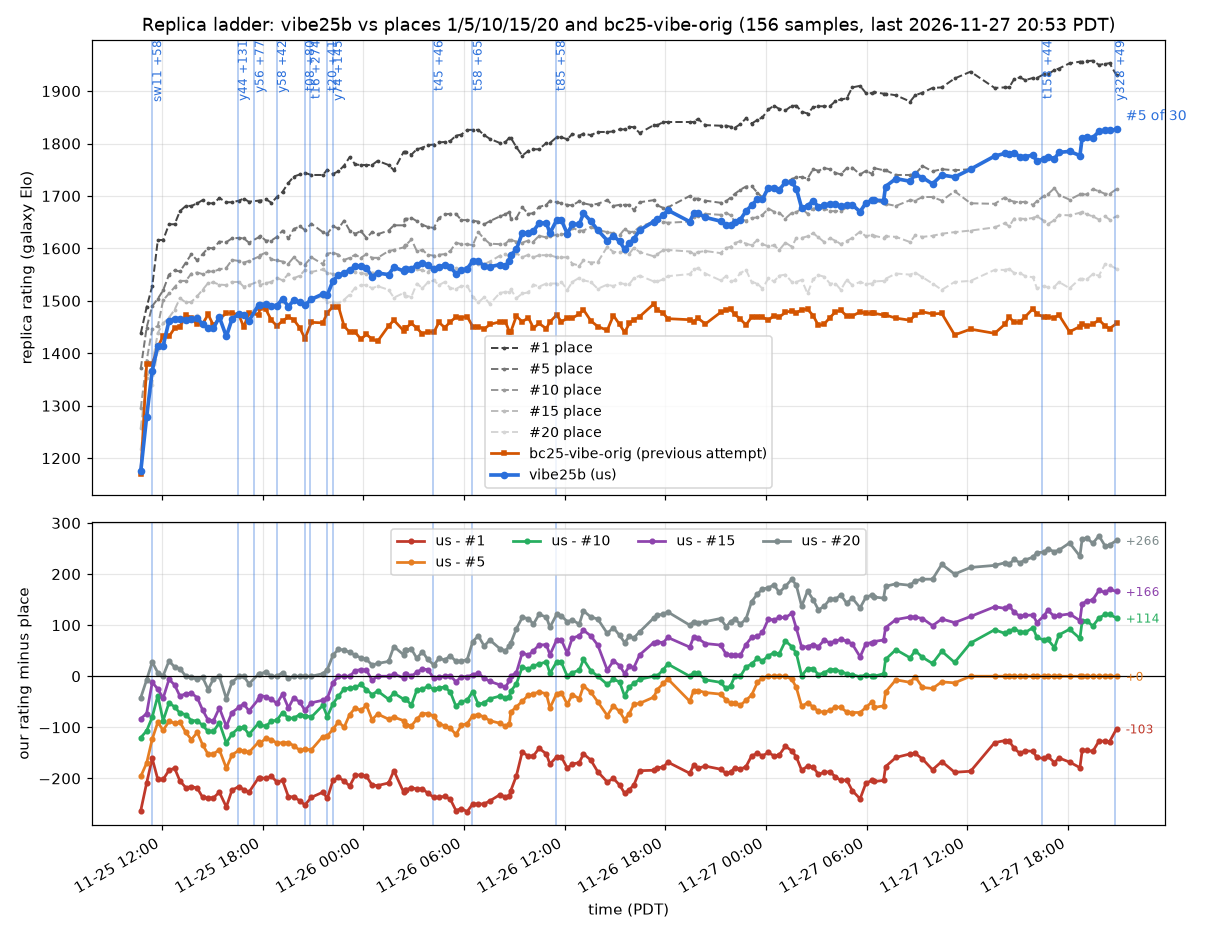
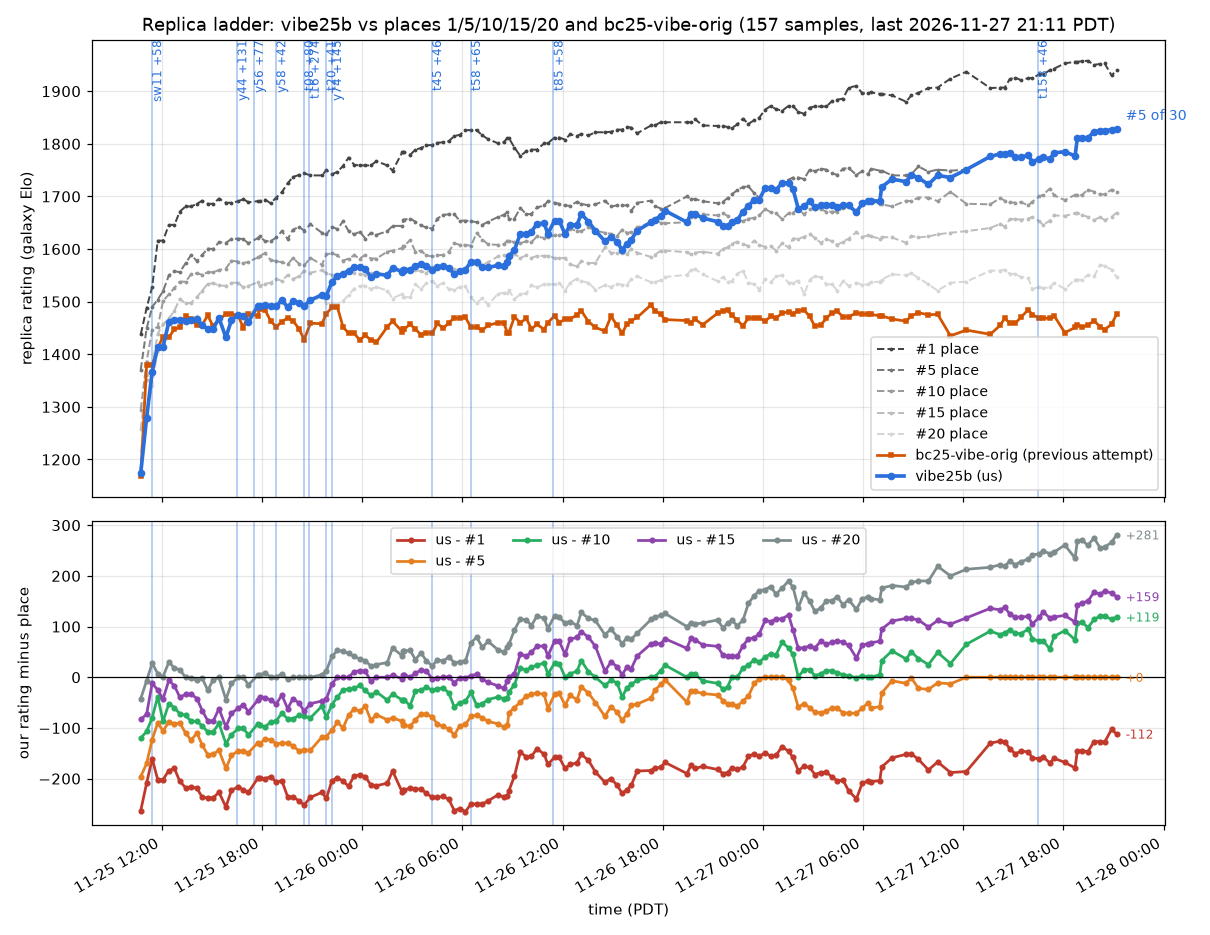
prod: y328 sets 1828 at #5; slots: y316 reference in, y323 and t158 out
Claude-Session: https://claude.ai/code/session_01SzziPSCWtjsjju9cnThDf5

diff --git a/progress/local-elo.md b/progress/local-elo.md
@@ -1,60 +1,60 @@
 # Local tournament Elo
 
-Bradley-Terry ratings of our own bots in the local tournament (`tools/tourney.py`), all 191429 games in one fit as of 2026-11-27 20:57 PDT, so every point is on the same scale; earlier champions are shown at their current rating, and "Gain" is the rating over the champion it replaced. `tools/tourney.py rank` rewrites this table; `tools/tourney.py chart` also redraws the chart.
+Bradley-Terry ratings of our own bots in the local tournament (`tools/tourney.py`), all 192694 games in one fit as of 2026-11-27 21:17 PDT, so every point is on the same scale; earlier champions are shown at their current rating, and "Gain" is the rating over the champion it replaced. `tools/tourney.py rank` rewrites this table; `tools/tourney.py chart` also redraws the chart.
 
 ![local elo](local-elo.png)
 
 | Champion from (PDT) | Bot | Change on base | Submission | Rating +- SE | Gain | Games |
 |---|---|---|---:|---:|---:|---:|
-| 2026-11-25 08:28 | v01 | foundation bot |  | 82 +- 18 |  | 435 |
-| 2026-11-25 08:39 | v02 | nav wall-follow fix + bytecode guards on v01 | #6 | 147 +- 13 | +65 | 801 |
-| 2026-11-25 09:01 | y02 | paint-heavy tower mix + paint towers upgraded first on v02 | #7 | 206 +- 11 | +59 | 1080 |
-| 2026-11-25 09:49 | y06 | 3 opening soldiers instead of 2 on y02 | #35 | 227 +- 13 | +21 | 700 |
-| 2026-11-25 10:09 | sw06 | no moppers before r80; a third of spawns moppers after (field study 1) on y02 | #36 | 284 +- 12 | +79 | 863 |
-| 2026-11-25 11:04 | y11 | mid-game mix 3 moppers per 6 (soldier mopper splasher mopper soldier mopper) on sw06 | #37 | 317 +- 14 | +33 | 655 |
-| 2026-11-25 11:24 | sw11 | at most 1 helper soldier per ruin (more ruins claimed in parallel) on y11 | #38 | 375 +- 11 | +58 | 1159 |
-| 2026-11-25 12:24 | y17 | sw11 + moppers prefer enemies within r2 25 of our towers (sw12) on sw11 | #39 | 393 +- 12 | +18 | 871 |
-| 2026-11-25 12:44 | y19 | sw11 with soldiers joining an occupied ruin only when adjacent (r2<=2) on y17 | #40 | 428 +- 14 | +35 | 678 |
-| 2026-11-25 13:04 | y24 | y17 with mopper defence widened (DEFEND_R2 36 / bonus 80) on y19 | #41 | 463 +- 13 | +35 | 679 |
-| 2026-11-25 13:24 | y25 | y19 (adjacent-only ruin helping) + y17 tower-defending moppers on y24 | #42 | 472 +- 12 | +9 | 898 |
-| 2026-11-25 13:44 | sw16 | y25 + soldier siege: with no ruin and paint>=80 kite a known enemy tower within r2 64 on y25 | #43 | 497 +- 11 | +24 | 976 |
-| 2026-11-25 14:04 | sw17 | y28 (siege from 50 paint r2 100) + splasher siege (towers weigh 40; walk to known tower within r2 100 at paint>=100) on sw16 | #44 | 529 +- 10 | +33 | 1110 |
-| 2026-11-25 14:44 | y30 | y28 with soldier siege from 30 paint within r2 144 (no splasher siege) on sw17 | #45 | 546 +- 7 | +17 | 2377 |
-| 2026-11-25 16:30 | y44 | study 3 tactic 3 (enemy refill policy): return at 50% paint (soldier 100/splasher 100/mopper 40) + end-of-turn top-up from any adjacent ally tower on y30 | #46 | 677 +- 8 | +131 | 2250 |
-| 2026-11-25 17:30 | y56 | study 3 tactic 4 (tower churn): a drained L1 money tower with intact pattern and an ally adjacent disintegrates at >=2000 chips; adjacent robots re-complete it for a fresh 500 paint on y44 | #47 | 754 +- 10 | +77 | 1320 |
-| 2026-11-25 18:50 | y58 | study 3 tactic 2 (early soldiers paint patterns not coverage): exploring soldiers paint no coverage before r50 on y56 | #48 | 796 +- 11 | +42 | 997 |
-| 2026-11-25 19:30 | t04 | t02 (no coverage painting before r80) + t03 (units wait beside drained money towers and repair their pattern so churn fires; study 3 tactics 2 and 4) on y58 | #49 | 829 +- 11 | +33 | 1065 |
-| 2026-11-25 20:30 | t08 | study 4 2.2 (contested ruins): soldiers skip a ruin with enemy paint in its visible 5x5 (bad for 50 rounds) on t04 | #50 | 909 +- 13 | +80 | 775 |
-| 2026-11-25 20:50 | t16 | t12 (t08 + study 4 2.1 spawn freeze 8 rounds in 20 below 1000+cost) + study 4 2.4 money-first: builds money until 8 towers then paint while paint towers < n/5; paint first only if none (all towers known) on t08 | #51 | 1183 +- 12 | +274 | 1213 |
-| 2026-11-25 21:50 | t20 | study 4 2.3: splashers weight enemy towers 30 (was 12) in the splash score on t16 | #52 | 1224 +- 15 | +41 | 587 |
-| 2026-11-25 22:10 | y74 | unit audit (owner prompt #15): splash-grid bug fix (enemy tiles never scored) + moppers stop once enemy paint is in mop reach; built on t16 on t20 | #53 | 1369 +- 10 | +145 | 1255 |
-| 2026-11-25 23:10 | t25 | unit audit + top teams' unit mix (616 S / 662 X / 701 M): after r80 paint towers cycle soldier-splasher-mopper; money towers keep S M X M S M on y74 | #54 | 1405 +- 13 | +36 | 680 |
-| 2026-11-25 23:30 | t27 | top teams' splasher-heavy late mix pushed further: paint towers cycle soldier-splasher-splasher-mopper after r80 on t25 | #55 | 1428 +- 9 | +22 | 1554 |
-| 2026-11-26 00:30 | y95 | upgrade spare 1200 (was 800): chips stay for new towers longer on t27 | #56 | 1463 +- 9 | +35 | 1822 |
-| 2026-11-26 02:01 | t36 | late SRPs (study 4 2.6 / study 3 tactic 7): soldiers without a ruin build SRPs on the x%4==2 y%4==2 lattice from r100 with chips>=1000; splashers avoid repainting SRP secondary tiles on y95 | #57 | 1500 +- 11 | +37 | 977 |
-| 2026-11-26 02:50 | y110 | money towers upgrade only with 2500 chips beyond the cost+spare (was 1000): chips go to new towers and SRPs on t36 | #58 | 1530 +- 10 | +31 | 1260 |
-| 2026-11-26 03:30 | t42 | study 4 3.1 recovery: with every tower known and no money tower left the next ruin is a money tower on y110 | #59 | 1544 +- 10 | +14 | 1332 |
-| 2026-11-26 04:10 | t45 | study 3 tactic 1: after r40 towers spawn only with 1000 chips beyond the unit's cost (no 600-chip window) on t42 | #60 | 1591 +- 10 | +46 | 1226 |
-| 2026-11-26 04:50 | t47 | study 3 tactic 5: a mopper due in the cycle spawns even below the 1000 reserve when an enemy robot is within d2 20 of the tower on t45 | #61 | 1619 +- 7 | +29 | 2398 |
-| 2026-11-26 06:30 | t58 | study 5 2.3: a splasher that has not splashed for 8 rounds (while able to) explores instead of chasing the nearest non-ally tile on t47 | #62 | 1684 +- 11 | +65 | 1087 |
-| 2026-11-26 07:10 | t61 | study 5 2.1 (softened): money towers for builds 1-5; then one more paint tower per 4 towers on t58 | #63 | 1720 +- 11 | +36 | 938 |
-| 2026-11-26 07:30 | y155 | study 5 2.1 tuned: money towers for builds 1-6; then one more paint tower per 4 towers on t61 | #64 | 1751 +- 9 | +31 | 1615 |
-| 2026-11-26 08:27 | t70 | y155 + splashers weight enemy towers 30 (t68) + 2000+ chips makes the next tower a paint tower (y159) on y155 | #65 | 1777 +- 7 | +26 | 2530 |
-| 2026-11-26 09:47 | t74 | moppers weight enemy paint near ruins 40 (study 6 2.1c) on t70 | #66 | 1796 +- 8 | +19 | 2200 |
-| 2026-11-26 10:47 | y170 | soldiers make the next tower a paint tower at 1500+ chips (t63 tuning; was 2000) on t74 | #67 | 1792 +- 7 | -4 | 2823 |
-| 2026-11-26 11:27 | t85 | study 6 2.2 ruin denial from where the soldier stands: a soldier with no ruin paints empty tiles of a ruin the enemy is building; without walking to it on y170 | #68 | 1850 +- 7 | +58 | 2556 |
-| 2026-11-26 12:47 | t91 | study 7 2.5: moppers ignore ruins under enemy towers when weighting ruin paint on t85 | #69 | 1862 +- 5 | +12 | 5663 |
-| 2026-11-26 13:27 | y195 | study 7 2.1a: explore unseen tiles first; up to 16 random draws on t91 | #70 | 1875 +- 9 | +14 | 1349 |
-| 2026-11-26 14:12 | y197 | ruin denial stops at 2 of our tiles (tuning of study 6 2.2) on y195 | #71 | 1891 +- 7 | +16 | 2235 |
-| 2026-11-26 15:27 | y211 | study 7 2.1a tuned: up to 128 random draws for an unseen explore target (was 16) on y197 | #72 | 1895 +- 6 | +3 | 4141 |
-| 2026-11-26 17:47 | y221 | study 8 2.2 (paint the first tower's pattern on the way in; a second soldier on the first ruin) + explore timeout 90; first champion through the confirmation stage (owner #46) on y211 | #73 | 1930 +- 5 | +35 | 6990 |
-| 2026-11-26 19:34 | t111 | splashers attack enemy paint/money towers from a stand-off tile outside their range (study 8 2.4) on y221 | #74 | 1944 +- 4 | +14 | 7551 |
-| 2026-11-26 23:27 | t118 | study 9 2.1b: a soldier on a blocked pattern with no own mopper or splasher in view gives up after 5 turns (was 25); confirmed +71 +-29 in 153 fresh games on t111 | #75 | 1981 +- 4 | +37 | 15801 |
-| 2026-11-27 01:07 | t122 | study 9 2.4: paint-tower dry flags expire after 10 rounds (was 40) and a flagged tower in sight is re-sensed; confirmed +6 +-19 in 378 fresh games; +16 overall on t118 | #76 | 1991 +- 4 | +11 | 18772 |
-| 2026-11-27 06:10 | t135 | study 10 2.6d: a soldier with no other soldier in view skips the 25-paint pattern mark (the top teams never mark); confirmed +9 +-22 in 262 fresh games; +14 overall on t122 | #77 | 1987 +- 5 | -4 | 6458 |
-| 2026-11-27 08:28 | t140 (now r140, verified identical) | study 11 2.1: free single marks (rc.mark on the 5x5 outer ring) replace the 25-paint pattern mark; marks re-read beside the ruin; confirmed +40 +-23 in 251 fresh games; +30 overall on t135 | #78 | 2028 +- 4 | +41 | 16363 |
-| 2026-11-27 16:27 | t158 | study 12 2.2: moppers hit and run (after acting; step off non-ally paint and away from enemy moppers within d2 8 and towers within d2 9); +40 +-24 over r140 in 217 games; first crowning without the confirmation stage (owner #66) on r140 | #79 | 2072 +- 6 | +44 | 3217 |
-| 2026-11-27 17:47 | t160 | t158 + study 12 2.4 n1 (Nav.tileCost counts adjacent allies; the engine's drain rule; y295) + 2.2 m1 (moppers swing at a single robot; t152); +17 +-15 over t158 in 818 games on t158 | #80 | 2084 +- 8 | +12 | 2052 |
-| 2026-11-27 18:25 | y316 | t160 + Nav paint weight 8 (was 6); +34 +-25 over t160 in 224 games on t160 | #81 | 2092 +- 6 | +8 | 3237 |
-| 2026-11-27 20:07 | y323 | y316 + churn wait 2 rounds (was 3; study 13 2.1: waiters hit 0 paint after a median 3 rounds); +36 +-21 over y316 in 306 games on y316 | #82 | 2110 +- 10 | +18 | 1321 |
-| 2026-11-27 20:47 | y328 | y323 + dry flags on money/defence towers last 60 rounds (was 40); +49 +-25 over y323 in 233 games on y323 | #83 | 2159 +- 23 | +49 | 233 |
+| 2026-11-25 08:28 | v01 | foundation bot |  | 73 +- 18 |  | 435 |
+| 2026-11-25 08:39 | v02 | nav wall-follow fix + bytecode guards on v01 | #6 | 138 +- 13 | +65 | 801 |
+| 2026-11-25 09:01 | y02 | paint-heavy tower mix + paint towers upgraded first on v02 | #7 | 197 +- 11 | +59 | 1080 |
+| 2026-11-25 09:49 | y06 | 3 opening soldiers instead of 2 on y02 | #35 | 218 +- 13 | +21 | 700 |
+| 2026-11-25 10:09 | sw06 | no moppers before r80; a third of spawns moppers after (field study 1) on y02 | #36 | 276 +- 12 | +79 | 863 |
+| 2026-11-25 11:04 | y11 | mid-game mix 3 moppers per 6 (soldier mopper splasher mopper soldier mopper) on sw06 | #37 | 308 +- 14 | +33 | 655 |
+| 2026-11-25 11:24 | sw11 | at most 1 helper soldier per ruin (more ruins claimed in parallel) on y11 | #38 | 366 +- 11 | +58 | 1159 |
+| 2026-11-25 12:24 | y17 | sw11 + moppers prefer enemies within r2 25 of our towers (sw12) on sw11 | #39 | 384 +- 12 | +18 | 871 |
+| 2026-11-25 12:44 | y19 | sw11 with soldiers joining an occupied ruin only when adjacent (r2<=2) on y17 | #40 | 420 +- 14 | +35 | 678 |
+| 2026-11-25 13:04 | y24 | y17 with mopper defence widened (DEFEND_R2 36 / bonus 80) on y19 | #41 | 454 +- 13 | +35 | 679 |
+| 2026-11-25 13:24 | y25 | y19 (adjacent-only ruin helping) + y17 tower-defending moppers on y24 | #42 | 464 +- 12 | +9 | 898 |
+| 2026-11-25 13:44 | sw16 | y25 + soldier siege: with no ruin and paint>=80 kite a known enemy tower within r2 64 on y25 | #43 | 488 +- 11 | +24 | 976 |
+| 2026-11-25 14:04 | sw17 | y28 (siege from 50 paint r2 100) + splasher siege (towers weigh 40; walk to known tower within r2 100 at paint>=100) on sw16 | #44 | 521 +- 10 | +33 | 1110 |
+| 2026-11-25 14:44 | y30 | y28 with soldier siege from 30 paint within r2 144 (no splasher siege) on sw17 | #45 | 538 +- 7 | +17 | 2377 |
+| 2026-11-25 16:30 | y44 | study 3 tactic 3 (enemy refill policy): return at 50% paint (soldier 100/splasher 100/mopper 40) + end-of-turn top-up from any adjacent ally tower on y30 | #46 | 668 +- 8 | +131 | 2250 |
+| 2026-11-25 17:30 | y56 | study 3 tactic 4 (tower churn): a drained L1 money tower with intact pattern and an ally adjacent disintegrates at >=2000 chips; adjacent robots re-complete it for a fresh 500 paint on y44 | #47 | 746 +- 10 | +77 | 1320 |
+| 2026-11-25 18:50 | y58 | study 3 tactic 2 (early soldiers paint patterns not coverage): exploring soldiers paint no coverage before r50 on y56 | #48 | 787 +- 11 | +42 | 997 |
+| 2026-11-25 19:30 | t04 | t02 (no coverage painting before r80) + t03 (units wait beside drained money towers and repair their pattern so churn fires; study 3 tactics 2 and 4) on y58 | #49 | 820 +- 11 | +33 | 1065 |
+| 2026-11-25 20:30 | t08 | study 4 2.2 (contested ruins): soldiers skip a ruin with enemy paint in its visible 5x5 (bad for 50 rounds) on t04 | #50 | 900 +- 13 | +80 | 775 |
+| 2026-11-25 20:50 | t16 | t12 (t08 + study 4 2.1 spawn freeze 8 rounds in 20 below 1000+cost) + study 4 2.4 money-first: builds money until 8 towers then paint while paint towers < n/5; paint first only if none (all towers known) on t08 | #51 | 1175 +- 12 | +274 | 1213 |
+| 2026-11-25 21:50 | t20 | study 4 2.3: splashers weight enemy towers 30 (was 12) in the splash score on t16 | #52 | 1216 +- 15 | +41 | 587 |
+| 2026-11-25 22:10 | y74 | unit audit (owner prompt #15): splash-grid bug fix (enemy tiles never scored) + moppers stop once enemy paint is in mop reach; built on t16 on t20 | #53 | 1360 +- 10 | +145 | 1255 |
+| 2026-11-25 23:10 | t25 | unit audit + top teams' unit mix (616 S / 662 X / 701 M): after r80 paint towers cycle soldier-splasher-mopper; money towers keep S M X M S M on y74 | #54 | 1396 +- 13 | +36 | 680 |
+| 2026-11-25 23:30 | t27 | top teams' splasher-heavy late mix pushed further: paint towers cycle soldier-splasher-splasher-mopper after r80 on t25 | #55 | 1419 +- 9 | +22 | 1554 |
+| 2026-11-26 00:30 | y95 | upgrade spare 1200 (was 800): chips stay for new towers longer on t27 | #56 | 1454 +- 9 | +35 | 1822 |
+| 2026-11-26 02:01 | t36 | late SRPs (study 4 2.6 / study 3 tactic 7): soldiers without a ruin build SRPs on the x%4==2 y%4==2 lattice from r100 with chips>=1000; splashers avoid repainting SRP secondary tiles on y95 | #57 | 1491 +- 11 | +37 | 977 |
+| 2026-11-26 02:50 | y110 | money towers upgrade only with 2500 chips beyond the cost+spare (was 1000): chips go to new towers and SRPs on t36 | #58 | 1521 +- 10 | +31 | 1260 |
+| 2026-11-26 03:30 | t42 | study 4 3.1 recovery: with every tower known and no money tower left the next ruin is a money tower on y110 | #59 | 1536 +- 10 | +14 | 1332 |
+| 2026-11-26 04:10 | t45 | study 3 tactic 1: after r40 towers spawn only with 1000 chips beyond the unit's cost (no 600-chip window) on t42 | #60 | 1582 +- 10 | +46 | 1226 |
+| 2026-11-26 04:50 | t47 | study 3 tactic 5: a mopper due in the cycle spawns even below the 1000 reserve when an enemy robot is within d2 20 of the tower on t45 | #61 | 1611 +- 7 | +29 | 2398 |
+| 2026-11-26 06:30 | t58 | study 5 2.3: a splasher that has not splashed for 8 rounds (while able to) explores instead of chasing the nearest non-ally tile on t47 | #62 | 1676 +- 11 | +65 | 1087 |
+| 2026-11-26 07:10 | t61 | study 5 2.1 (softened): money towers for builds 1-5; then one more paint tower per 4 towers on t58 | #63 | 1711 +- 11 | +36 | 938 |
+| 2026-11-26 07:30 | y155 | study 5 2.1 tuned: money towers for builds 1-6; then one more paint tower per 4 towers on t61 | #64 | 1742 +- 9 | +31 | 1615 |
+| 2026-11-26 08:27 | t70 | y155 + splashers weight enemy towers 30 (t68) + 2000+ chips makes the next tower a paint tower (y159) on y155 | #65 | 1768 +- 7 | +26 | 2530 |
+| 2026-11-26 09:47 | t74 | moppers weight enemy paint near ruins 40 (study 6 2.1c) on t70 | #66 | 1787 +- 8 | +19 | 2200 |
+| 2026-11-26 10:47 | y170 | soldiers make the next tower a paint tower at 1500+ chips (t63 tuning; was 2000) on t74 | #67 | 1783 +- 7 | -4 | 2823 |
+| 2026-11-26 11:27 | t85 | study 6 2.2 ruin denial from where the soldier stands: a soldier with no ruin paints empty tiles of a ruin the enemy is building; without walking to it on y170 | #68 | 1840 +- 7 | +58 | 2556 |
+| 2026-11-26 12:47 | t91 | study 7 2.5: moppers ignore ruins under enemy towers when weighting ruin paint on t85 | #69 | 1852 +- 5 | +12 | 5663 |
+| 2026-11-26 13:27 | y195 | study 7 2.1a: explore unseen tiles first; up to 16 random draws on t91 | #70 | 1866 +- 9 | +14 | 1349 |
+| 2026-11-26 14:12 | y197 | ruin denial stops at 2 of our tiles (tuning of study 6 2.2) on y195 | #71 | 1882 +- 7 | +16 | 2235 |
+| 2026-11-26 15:27 | y211 | study 7 2.1a tuned: up to 128 random draws for an unseen explore target (was 16) on y197 | #72 | 1886 +- 6 | +3 | 4141 |
+| 2026-11-26 17:47 | y221 | study 8 2.2 (paint the first tower's pattern on the way in; a second soldier on the first ruin) + explore timeout 90; first champion through the confirmation stage (owner #46) on y211 | #73 | 1921 +- 5 | +35 | 6990 |
+| 2026-11-26 19:34 | t111 | splashers attack enemy paint/money towers from a stand-off tile outside their range (study 8 2.4) on y221 | #74 | 1935 +- 4 | +14 | 7551 |
+| 2026-11-26 23:27 | t118 | study 9 2.1b: a soldier on a blocked pattern with no own mopper or splasher in view gives up after 5 turns (was 25); confirmed +71 +-29 in 153 fresh games on t111 | #75 | 1971 +- 4 | +37 | 15801 |
+| 2026-11-27 01:07 | t122 | study 9 2.4: paint-tower dry flags expire after 10 rounds (was 40) and a flagged tower in sight is re-sensed; confirmed +6 +-19 in 378 fresh games; +16 overall on t118 | #76 | 1982 +- 4 | +11 | 18772 |
+| 2026-11-27 06:10 | t135 | study 10 2.6d: a soldier with no other soldier in view skips the 25-paint pattern mark (the top teams never mark); confirmed +9 +-22 in 262 fresh games; +14 overall on t122 | #77 | 1978 +- 5 | -4 | 6458 |
+| 2026-11-27 08:28 | t140 (now r140, verified identical) | study 11 2.1: free single marks (rc.mark on the 5x5 outer ring) replace the 25-paint pattern mark; marks re-read beside the ruin; confirmed +40 +-23 in 251 fresh games; +30 overall on t135 | #78 | 2019 +- 4 | +41 | 16443 |
+| 2026-11-27 16:27 | t158 | study 12 2.2: moppers hit and run (after acting; step off non-ally paint and away from enemy moppers within d2 8 and towers within d2 9); +40 +-24 over r140 in 217 games; first crowning without the confirmation stage (owner #66) on r140 | #79 | 2064 +- 6 | +46 | 3370 |
+| 2026-11-27 17:47 | t160 | t158 + study 12 2.4 n1 (Nav.tileCost counts adjacent allies; the engine's drain rule; y295) + 2.2 m1 (moppers swing at a single robot; t152); +17 +-15 over t158 in 818 games on t158 | #80 | 2076 +- 8 | +12 | 2084 |
+| 2026-11-27 18:25 | y316 | t160 + Nav paint weight 8 (was 6); +34 +-25 over t160 in 224 games on t160 | #81 | 2079 +- 6 | +3 | 3361 |
+| 2026-11-27 20:07 | y323 | y316 + churn wait 2 rounds (was 3; study 13 2.1: waiters hit 0 paint after a median 3 rounds); +36 +-21 over y316 in 306 games on y316 | #82 | 2094 +- 9 | +14 | 1488 |
+| 2026-11-27 20:47 | y328 | y323 + dry flags on money/defence towers last 60 rounds (was 40); +49 +-25 over y323 in 233 games on y323 | #83 | 2108 +- 13 | +14 | 720 |
